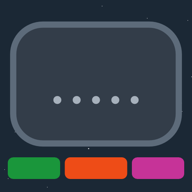
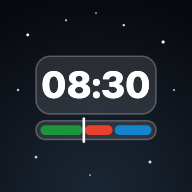
Nytt ikon («Skjermen om natta»), nedteller øverst og kompakt på iPad, paneler flyttbare med finger
Ikonet er nå elevenes skjerm en kveld: stjernehimmel, glasskort med 08:30
og en kort tidslinje med nå-markør. Alt ligger innenfor feltet iPad og
Android maskerer til. SVG-favicon pluss PNG i 32, 180, 192 og 512.

Nedtelleren ligger over klokka, nedtellingskortene, agenda og notat, og
blir kompakt på skjermer lavere enn 880 px slik at alle knappene synes
uten scrolling. Agenda og notat flyttes med pekerhendelser (finger på
iPad), via felles utils/drag.js, og ligger over nedtellingskortene.

diff --git a/src/utils/drag.js b/src/utils/drag.js
@@ -1,0 +1,67 @@
+/**
+ * Gjør et fast plassert panel flyttbart ved å dra i et håndtak.
+ * Bruker pekerhendelser, så det virker med finger på iPad like godt som med mus.
+ * Trykk på knapper, felt og redigerbar tekst inne i håndtaket flytter ikke panelet.
+ *
+ * Returnerer en funksjon som fjerner lytterne igjen.
+ */
+export function makeDraggablePanel(el, handle) {
+  if (!el || !handle) return () => {};
+
+  let startX = 0;
+  let startY = 0;
+  let startLeft = 0;
+  let startTop = 0;
+  let activeId = null;
+
+  function onDown(e) {
+    if (e.button != null && e.button !== 0) return;
+    if (e.target.closest('input, button, select, textarea, label, a, [contenteditable]')) return;
+    const rect = el.getBoundingClientRect();
+    // Lås panelet til der det står nå, så transform/right ikke slår inn under flyttingen
+    el.style.transform = 'none';
+    el.style.left = `${rect.left}px`;
+    el.style.top = `${rect.top}px`;
+    el.style.right = 'auto';
+    el.style.bottom = 'auto';
+    startX = e.clientX;
+    startY = e.clientY;
+    startLeft = rect.left;
+    startTop = rect.top;
+    activeId = e.pointerId;
+    try { handle.setPointerCapture(e.pointerId); } catch { /* eldre nettlesere */ }
+    e.preventDefault();
+  }
+
+  function onMove(e) {
+    if (activeId === null || e.pointerId !== activeId) return;
+    const w = el.offsetWidth;
+    const h = el.offsetHeight;
+    const maxLeft = Math.max(0, window.innerWidth - w);
+    const maxTop = Math.max(0, window.innerHeight - 48); // håndtaket skal alltid kunne nås
+    const left = Math.min(maxLeft, Math.max(0, startLeft + (e.clientX - startX)));
+    const top = Math.min(maxTop, Math.max(0, startTop + (e.clientY - startY)));
+    el.style.left = `${left}px`;
+    el.style.top = `${top}px`;
+    void h;
+  }
+
+  function onUp(e) {
+    if (activeId === null || e.pointerId !== activeId) return;
+    activeId = null;
+    try { handle.releasePointerCapture(e.pointerId); } catch { /* ignorer */ }
+  }
+
+  handle.addEventListener('pointerdown', onDown);
+  handle.addEventListener('pointermove', onMove);
+  handle.addEventListener('pointerup', onUp);
+  handle.addEventListener('pointercancel', onUp);
+  handle.style.touchAction = 'none';
+
+  return () => {
+    handle.removeEventListener('pointerdown', onDown);
+    handle.removeEventListener('pointermove', onMove);
+    handle.removeEventListener('pointerup', onUp);
+    handle.removeEventListener('pointercancel', onUp);
+  };
+}

diff --git a/src/designsprak.css b/src/designsprak.css
@@ -227,7 +227,23 @@ body.ui-light {
     min-height: 0;
     max-height: calc(100vh - 102px);
     overflow: visible;
-    z-index: 2900; /* under dialogene (3000+), så de aldri havner bak nedtelleren */
+    z-index: 6000; /* over klokka (5000), nedtellingene (4500), agenda og notat; under verktøykassa og dialogene */
+}
+
+/* iPad i liggende format (768–820 px høyt): kompakt nedteller, så alle knappene får plass uten scrolling */
+@media (max-height: 880px) {
+    .timer-panel:not(.is-big) { top: 84px; max-height: calc(100vh - 92px); }
+    .timer-panel:not(.is-big) .tt-device { padding: 14px 14px 12px; gap: 10px; }
+    .timer-panel:not(.is-big) .tt-dial { width: 224px; }
+    .timer-panel:not(.is-big) .tt-plate { gap: 4px; padding: 2px 0 2px; }
+    .timer-panel:not(.is-big) .tt-readout-time { font-size: 2.4rem; }
+    .timer-panel:not(.is-big) .tt-controls { margin-top: 2px; }
+    .timer-panel:not(.is-big) .tt-main-btn { min-height: 46px; font-size: 1rem; }
+    .timer-panel:not(.is-big) .tt-controls .k-btn { min-height: 40px; }
+    .timer-panel:not(.is-big) .tt-settings { gap: 8px; padding: 10px 12px 8px; }
+    .timer-panel:not(.is-big) .tt-preset { min-height: 34px; font-size: 0.9rem; }
+    .timer-panel:not(.is-big) .tt-step { width: 40px; height: 40px; }
+    .timer-panel:not(.is-big) .tt-stepper { grid-template-columns: 40px 1fr 40px; }
 }
 
 /* Nedtelleren er ikke synlig mens klassemenyen og editoren er åpne (den går videre i bakgrunnen) */
@@ -1425,7 +1441,7 @@ body.under-the-hood-active .timer-mini { display: none !important; }
     max-width: calc(100vw - 40px);
     max-height: calc(100vh - 130px);
     resize: both;
-    z-index: 3600;
+    z-index: 4600; /* over nedtellingskortene (4500) */
 }
 .note-toolbar { display: inline-flex; gap: 6px; margin-left: auto; cursor: default; }
 .note-toolbar-btn {
@@ -1471,7 +1487,7 @@ body.under-the-hood-active .timer-mini { display: none !important; }
     max-width: calc(100vw - 40px);
     max-height: calc(100vh - 120px);
     resize: both;
-    z-index: 4000;
+    z-index: 4700; /* over nedtellingskortene (4500) og notatet */
 }
 .agenda-sidebar .k-panel-head {
     background: var(--fag);

diff --git a/src/components/NotePanel.jsx b/src/components/NotePanel.jsx
@@ -1,35 +1,9 @@
 import { useEffect, useRef } from 'react';
 import { safeGetItem, safeSetItem, sanitizeNoteHtml } from '../utils/storage.js';
+import { makeDraggablePanel } from '../utils/drag.js';
 
 const NOTE_STORAGE_KEY = 'classroomNoteHtml';
 
-function makeDraggablePanel(el, handle) {
-  if (!el || !handle) return () => {};
-  let pos1 = 0, pos2 = 0, pos3 = 0, pos4 = 0;
-  function dragMouseDown(e) {
-    const interactive = e.target.closest('input, button, select, textarea, label, [contenteditable]');
-    if (interactive) return;
-    const rect = el.getBoundingClientRect();
-    el.style.transform = 'none';
-    el.style.left = `${rect.left}px`;
-    el.style.top = `${rect.top}px`;
-    pos3 = e.clientX;
-    pos4 = e.clientY;
-    document.onmouseup = closeDrag;
-    document.onmousemove = drag;
-  }
-  function drag(e) {
-    e.preventDefault();
-    pos1 = pos3 - e.clientX; pos2 = pos4 - e.clientY;
-    pos3 = e.clientX; pos4 = e.clientY;
-    el.style.top = (el.offsetTop - pos2) + "px";
-    el.style.left = (el.offsetLeft - pos1) + "px";
-    el.style.right = 'auto';
-  }
-  function closeDrag() { document.onmouseup = null; document.onmousemove = null; }
-  handle.onmousedown = dragMouseDown;
-  return () => { handle.onmousedown = null; };
-}
 
 /** Notat til klassen: stor tekst på et instrumentpanel som kan dras rundt og endres i størrelse. */
 export default function NotePanel({ open, onClose }) {

diff --git a/src/components/AgendaSidebar.jsx b/src/components/AgendaSidebar.jsx
@@ -1,43 +1,8 @@
 import { useState, useRef, useEffect } from 'react';
 import { normalizeSubjectLabel } from '../utils/schedule.js';
 import { getReadableAgendaTextColor, getSubjectDefaultColor } from '../utils/color.js';
+import { makeDraggablePanel } from '../utils/drag.js';
 
-function makeDraggablePanel(el, handle) {
-  if (!el || !handle) return () => {};
-  let pos1 = 0, pos2 = 0, pos3 = 0, pos4 = 0;
-
-  function dragMouseDown(e) {
-    const interactiveTarget = e.target.closest('input, button, select, textarea, label');
-    if (interactiveTarget) return;
-    const rect = el.getBoundingClientRect();
-    el.style.transform = 'none';
-    el.style.left = `${rect.left}px`;
-    el.style.top = `${rect.top}px`;
-    pos3 = e.clientX;
-    pos4 = e.clientY;
-    document.onmouseup = closeDrag;
-    document.onmousemove = drag;
-  }
-
-  function drag(e) {
-    e.preventDefault();
-    pos1 = pos3 - e.clientX;
-    pos2 = pos4 - e.clientY;
-    pos3 = e.clientX;
-    pos4 = e.clientY;
-    el.style.top = (el.offsetTop - pos2) + "px";
-    el.style.left = (el.offsetLeft - pos1) + "px";
-    el.style.right = 'auto';
-  }
-
-  function closeDrag() {
-    document.onmouseup = null;
-    document.onmousemove = null;
-  }
-
-  handle.onmousedown = dragMouseDown;
-  return () => { handle.onmousedown = null; };
-}
 
 export default function AgendaSidebar({
   open,

diff --git a/index.html b/index.html
@@ -5,6 +5,7 @@
     <meta name="viewport" content="width=device-width, initial-scale=1.0">
     <title>Klasseromsskjerm</title>
     <link rel="manifest" href="/manifest.webmanifest">
+    <link rel="icon" href="/favicon.svg" type="image/svg+xml">
     <link rel="icon" href="/favicon-32.png" sizes="32x32" type="image/png">
     <link rel="apple-touch-icon" href="/apple-touch-icon.png">
     <meta name="theme-color" content="#1C2735">
